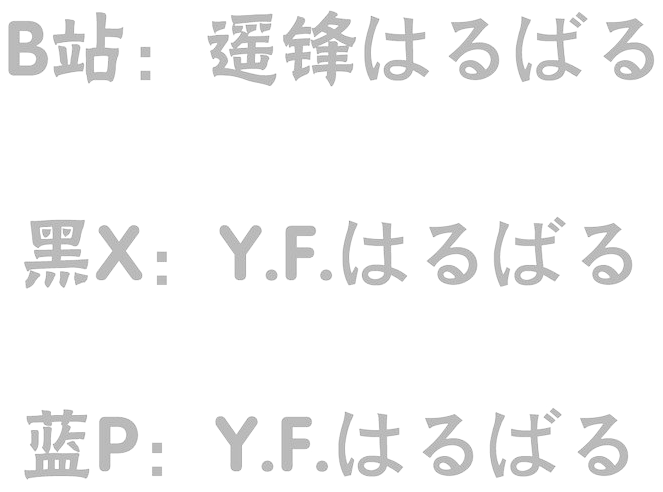
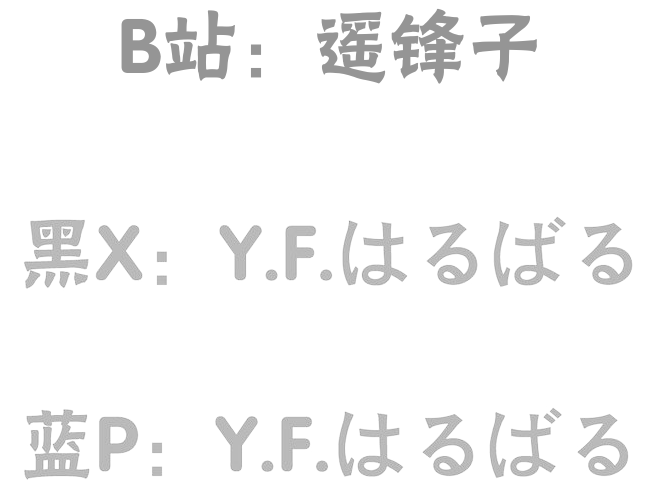
Rename Bilibili handle to Yaofeng-zi on the contact block

Changed region(s): [[0.0, 0.0, 0.9955, 0.1829]]

diff --git a/index.html b/index.html
@@ -298,7 +298,7 @@ h1{
 
 <!-- ===== 联系方式：大屏左右两侧（固定不随页面滚动） ===== -->
 <div class="social social-side social-left">
-  <img src="img/social.png" alt="B站：遥锋はるばる / 黑X：Y.F.はるばる / 蓝P：Y.F.はるばる" />
+  <img src="img/social.png" alt="B站：遥锋子 / 黑X：Y.F.はるばる / 蓝P：Y.F.はるばる" />
 </div>
 <div class="social social-side social-right" aria-hidden="true">
   <img src="img/social.png" alt="" />
@@ -333,7 +333,7 @@ h1{
 
 <!-- ===== 联系方式：窄屏/手机显示在页面底部 ===== -->
 <div class="social social-bottom">
-  <img src="img/social.png" alt="B站：遥锋はるばる / 黑X：Y.F.はるばる / 蓝P：Y.F.はるばる" />
+  <img src="img/social.png" alt="B站：遥锋子 / 黑X：Y.F.はるばる / 蓝P：Y.F.はるばる" />
 </div>
 
 <script>
